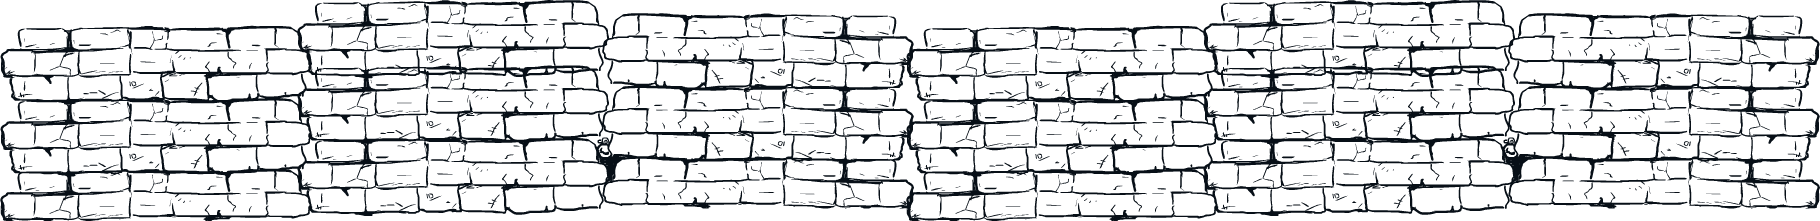
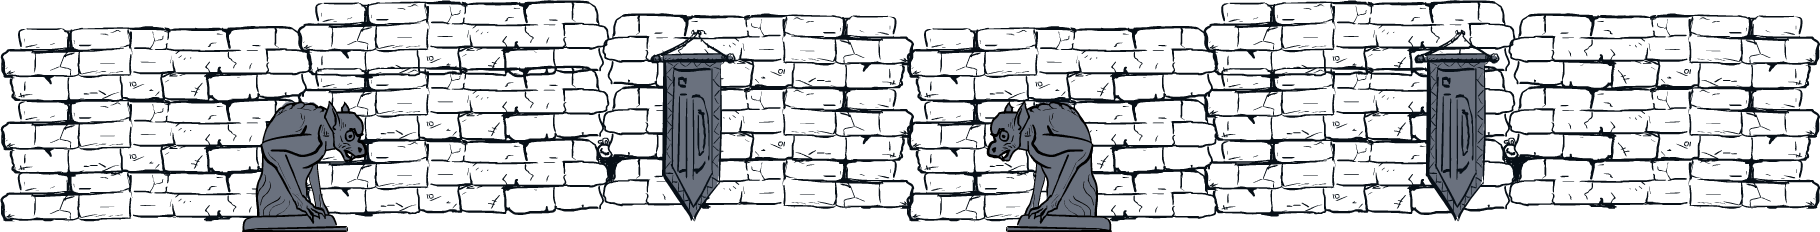
Wall and boss animation bugfix

diff --git a/js/scenes/mainScene.js b/js/scenes/mainScene.js
@@ -12,7 +12,7 @@ class MainScene extends SceneBase {
         super(switchCallback);
 
         // Add background
-        const wallShift = 10, wallHeight = 221;
+        const wallShift = 10, wallHeight = 232;
         this.tilingBackground = new PIXI.extras.TilingSprite(
             Params.textures.background.tilingWall,
             Params.application.width,
@@ -20,7 +20,7 @@ class MainScene extends SceneBase {
         );
         this.tilingBackground.position.y = wallShift
         this.addChild(this.tilingBackground);
-
+        
         this.tilingFloor = new PIXI.extras.TilingSprite(
             Params.textures.background.tilingFloor,
             Params.application.width,
